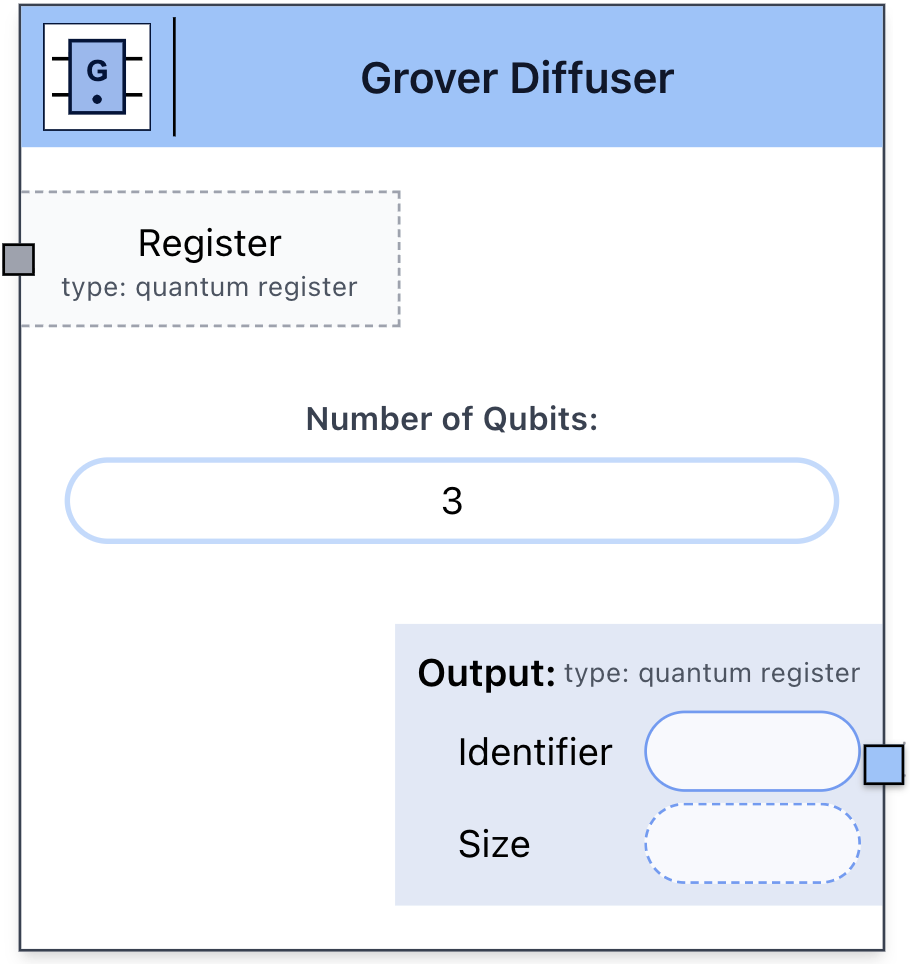
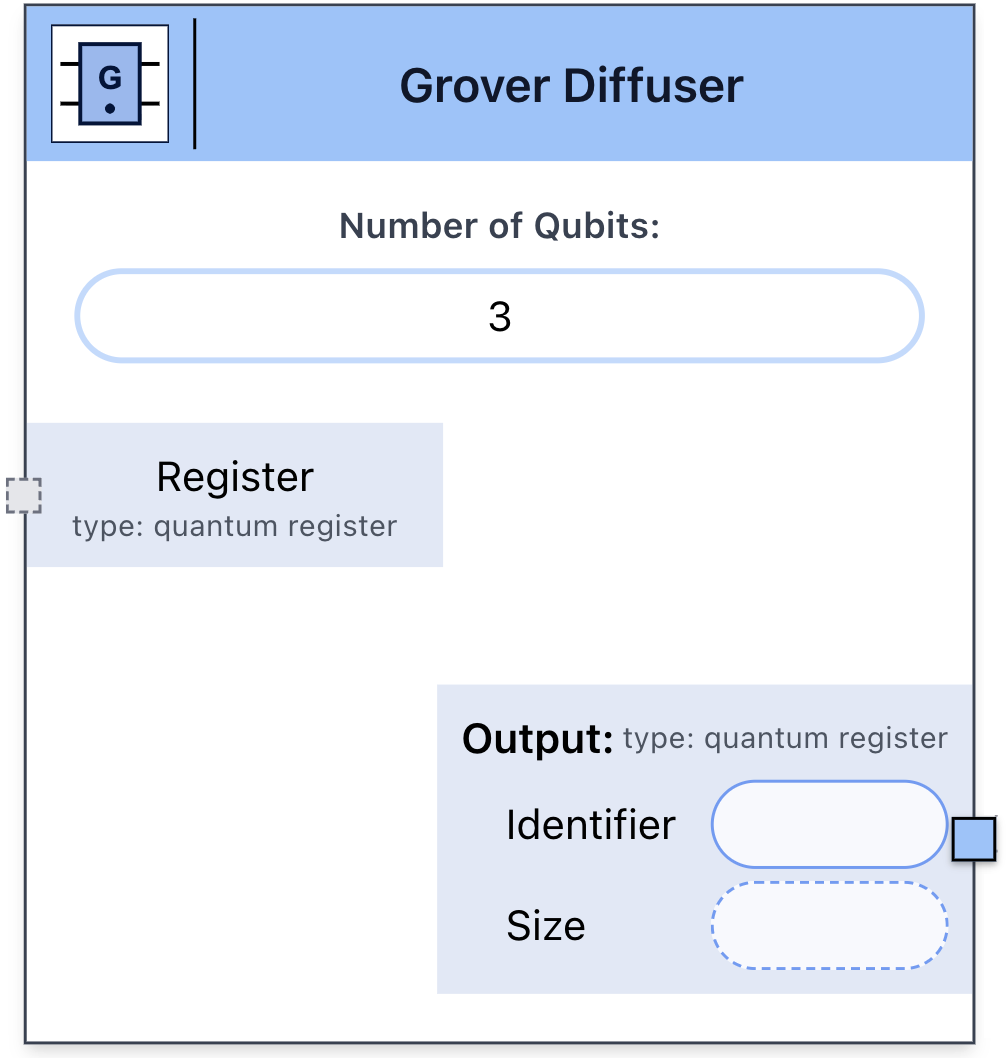
UI fixes for oracles

diff --git a/src/components/nodes/UniversalOracleNode.tsx b/src/components/nodes/UniversalOracleNode.tsx
@@ -1,10 +1,11 @@
 import { memo, useState } from "react";
 import { Node, Handle, Position } from "reactflow";
-import { useStore } from "@/config/store"; 
+import { useStore } from "@/config/store";
 import { shallow } from "zustand/shallow";
 import { cn } from "@/lib/utils";
 import { motion } from "framer-motion";
-import OutputPort from "../utils/outputPort"; 
+import OutputPort from "../utils/outputPort";
+import { quantumConstructColor } from "@/constants";
 
 const selector = (state: any) => ({
   updateNodeValue: state.updateNodeValue,
@@ -20,7 +21,7 @@ export const UniversalOracleNode = memo((node: Node) => {
   const [numQubitsStr, setNumQubitsStr] = useState(String(data.numQubits || 3));
   const [mode, setMode] = useState(data.mode || "phase");
   const [targetStates, setTargetStates] = useState(data.targetStates || "");
-  
+
   const [outputs, setOutputs] = useState(data.outputs || []);
   const [outputIdentifierError, setOutputIdentifierError] = useState(false);
   const [sizeError, setSizeError] = useState(false);
@@ -38,7 +39,7 @@ export const UniversalOracleNode = memo((node: Node) => {
     <motion.div
       className="grand-parent"
       initial={false}
-      animate={{ width: 320, height: 480 }} 
+      animate={{ width: 320, height: 480 }}
       transition={{ duration: 0.3, ease: "easeInOut" }}
     >
       <div className="grand-parent">
@@ -64,44 +65,8 @@ export const UniversalOracleNode = memo((node: Node) => {
             </div>
           </div>
 
-          {/* QUANTUM INPUT PORT */}
-          <div className="mt-4 flex flex-col space-y-2">
-            <div
-              className={cn(
-                "relative p-2 flex items-center",
-                isConnected 
-                  ? ""
-                  : "border border-l-0 border-dashed border-gray-400"
-              )}
-              style={{
-                width: '140px',
-                backgroundColor: isConnected ? "rgba(105, 145, 210, 0.2)" : "#f9fafb"
-              }}
-            >
-              <Handle
-                type="target"
-                id={`quantumHandleInput0${id}`}
-                position={Position.Left}
-                className={cn(
-                  "z-10 !rounded-none !border-black -left-[7px]",
-                  isConnected ? "!bg-blue-400" : "!bg-gray-400"
-                )}
-                style={{ width: 12, height: 12 }}
-                isConnectable={!isConnected}
-              />
-              <div className="flex flex-col w-full text-center leading-tight">
-                <span className="text-black text-sm truncate">
-                  {node.data.inputs?.[0]?.outputIdentifier || "Register"}
-                </span>
-                <span className="text-[10px] text-gray-600">
-                  type: quantum register
-                </span>
-              </div>
-            </div>
-          </div>
-
           {/* CONFIGURATION BODY */}
-          <div className="px-4 py-1 mt-2">
+          <div className="px-4 py-1 mt-1">
             <div>
               <label className="text-xs font-semibold text-gray-700">Number of Qubits:</label>
               <input
@@ -151,6 +116,35 @@ export const UniversalOracleNode = memo((node: Node) => {
               <p className="text-[10px] text-gray-500 mt-1 text-center">
                 Max index: {(1 << (parseInt(numQubitsStr, 10) || 1)) - 1}
               </p>
+            </div>
+          </div>
+
+          {/* QUANTUM INPUT PORT */}
+          <div className="mt-4 flex flex-col space-y-2">
+            <div
+              className={cn(
+                "relative p-2 flex items-center")}
+              style={{ width: "140px", background: quantumConstructColor }}
+            >
+              <Handle
+                type="target"
+                id={`quantumHandleInput0${id}`}
+                position={Position.Left}
+                className={cn(
+                  "z-10 !rounded-none !border-dashed !border-gray-500 -left-[7px]",
+                  isConnected ? "!bg-blue-400" : "!bg-gray-200"
+                )}
+                style={{ width: 12, height: 12 }}
+                isConnectable={!isConnected}
+              />
+              <div className="flex flex-col w-full text-center leading-tight">
+                <span className="text-black text-sm truncate">
+                  {node.data.inputs?.[0]?.outputIdentifier || "Register"}
+                </span>
+                <span className="text-[10px] text-gray-600">
+                  type: quantum register
+                </span>
+              </div>
             </div>
           </div>
 

diff --git a/src/components/nodes/GroverDiffuserNode.tsx b/src/components/nodes/GroverDiffuserNode.tsx
@@ -63,6 +63,27 @@ export const GroverDiffuserNode = memo((node: Node) => {
             </div>
           </div>
 
+          {/* CONFIGURATION BODY */}
+          <div className="px-4 py-1 mt-1">
+            <div>
+              <label className="text-xs font-semibold text-gray-700">Number of Qubits:</label>
+              <input
+                type="text"
+                inputMode="numeric"
+                className="w-full p-1 mt-1 text-sm text-center text-black border-2 border-blue-200 rounded-full outline-none focus:border-blue-400 transition-colors"
+                value={numQubitsStr}
+                onChange={(e) => {
+                  const val = e.target.value.replace(/[^0-9]/g, "");
+                  setNumQubitsStr(val);
+                  const parsed = parseInt(val, 10);
+                  if (!isNaN(parsed)) {
+                    handleChange("numQubits", parsed);
+                  }
+                }}
+              />
+            </div>
+          </div>
+
           {/* QUANTUM INPUT PORT */}
           <div className="mt-4 flex flex-col space-y-2">
             <div
@@ -89,27 +110,6 @@ export const GroverDiffuserNode = memo((node: Node) => {
                   type: quantum register
                 </span>
               </div>
-            </div>
-          </div>
-
-          {/* CONFIGURATION BODY */}
-          <div className="px-4 py-1 mt-4">
-            <div>
-              <label className="text-xs font-semibold text-gray-700">Number of Qubits:</label>
-              <input
-                type="text"
-                inputMode="numeric"
-                className="w-full p-1 mt-1 text-sm text-center text-black border-2 border-blue-200 rounded-full outline-none focus:border-blue-400 transition-colors"
-                value={numQubitsStr}
-                onChange={(e) => {
-                  const val = e.target.value.replace(/[^0-9]/g, "");
-                  setNumQubitsStr(val);
-                  const parsed = parseInt(val, 10);
-                  if (!isNaN(parsed)) {
-                    handleChange("numQubits", parsed);
-                  }
-                }}
-              />
             </div>
           </div>
 
